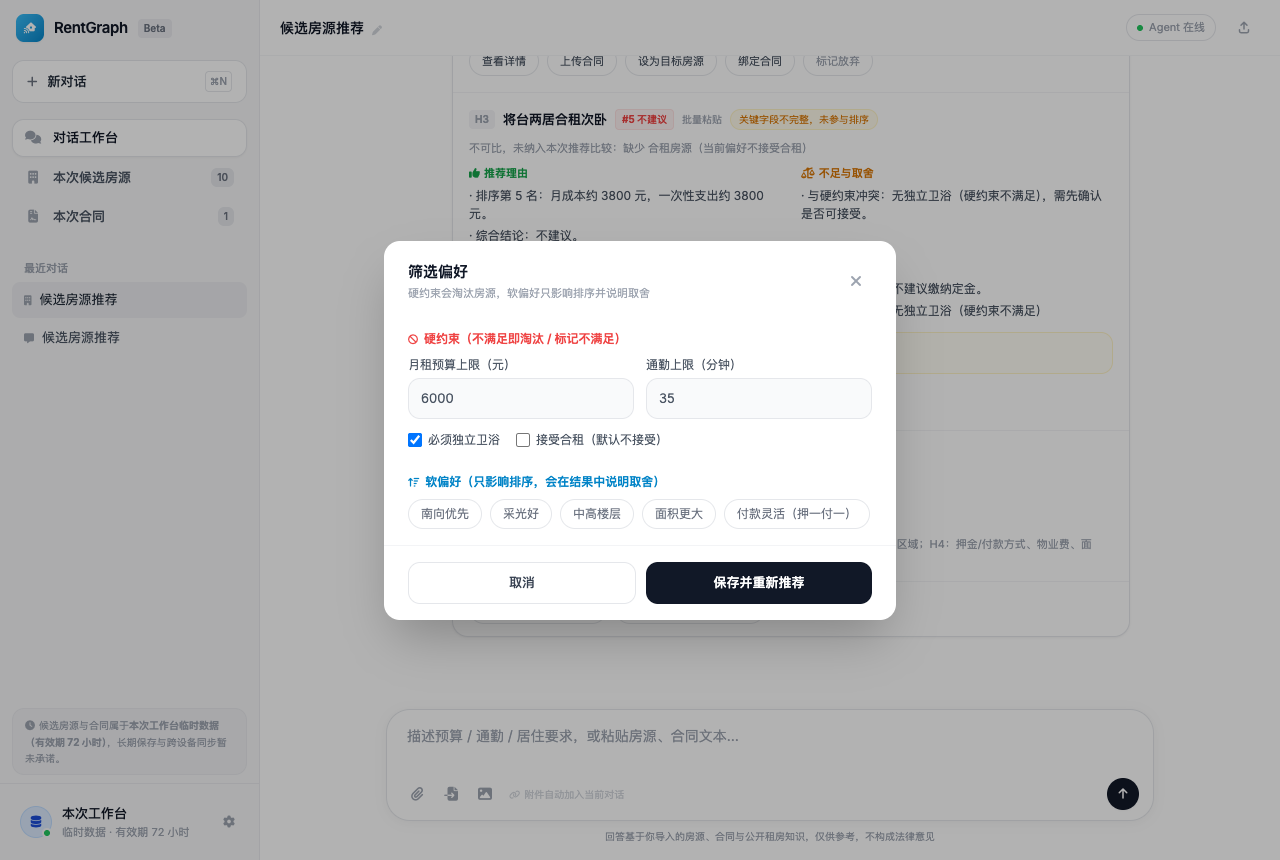
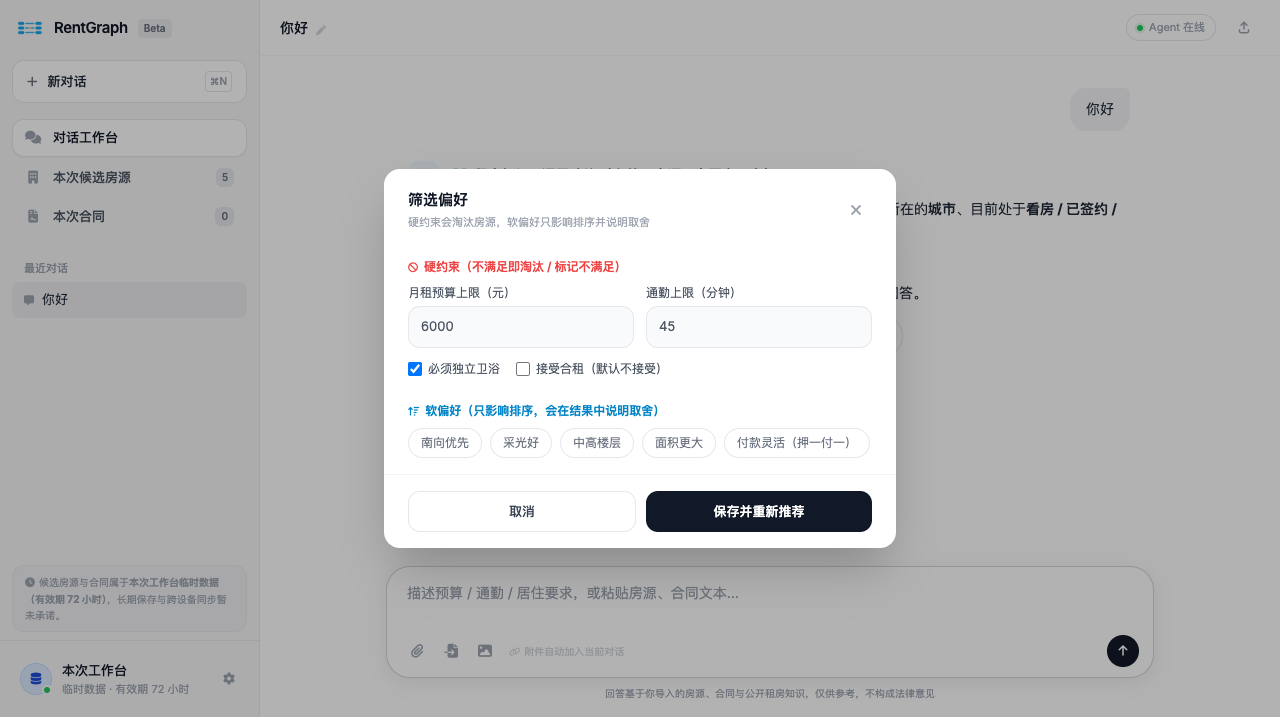
docs: README 顶部加品牌图标、截图按新品牌重拍、设计文档标记已落地
- README 头部改为 图标 + 标题 + 一句话 + 徽章 + 导航，首页截图下移到正文首屏
- 8 张界面截图全部用新品牌重拍（侧边栏 logo / AI 消息头像 / 空状态标记）
- doc/design/图标与视觉资产-设计提示词.md §7 更新为落地清单（含产物表与回滚方式）

diff --git a/doc/design/图标与视觉资产-设计提示词.md b/doc/design/图标与视觉资产-设计提示词.md
@@ -192,11 +192,24 @@ real estate agent cliché, busy background, frame border, cropped edges
 - [ ] **形状语言一致**：与前端现有元素（28px 圆角方块、`rounded-lg`、粗描边图标）放一起不违和
 - [ ] **导出**：`icon-1024.png`（透明）/ `icon-dark-1024.png` / `icon-mono-1024.png` / `favicon-64.png` / `social-1280x640.png`
 
-## 7. 落地位置（设计定稿后需要改的地方）
+## 7. 落地位置（✅ 已接入）
 
-| 资产 | 落地位置 |
+资产由 `web/scripts/make-icon-exports.py` 生成（换图标时重跑一次即可）：
+
+| 文件 | 尺寸 | 来源 | 用途 |
+|---|---|---|---|
+| `web/public/icon-1024.png` / `icon-512.png` / `icon-192.png` | 1024 / 512 / 192 | 原稿（5 行） | README、og:image、文档 |
+| `web/public/apple-touch-icon.png` | 180 | 原稿 | iOS 主屏 |
+| `web/public/mark-96.png` | 96 | **3 行简化版** | 侧边栏 logo、AI 消息头像、空状态 |
+| `web/public/favicon.png` / `favicon-32.png` | 48 / 32 | 3 行简化版 | 浏览器标签页 |
+
+| 落地位置 | 现状 |
 |---|---|
-| Favicon / apple-touch-icon / og:image | `web/index.html`（目前**完全缺失**，只有 `<title>`） |
-| 侧边栏 logo 字形 | `web/src/components/Sidebar.tsx` 第 46–49 行，现为 `bg-gradient-to-br from-brand-400 to-brand-600` + `fa-house-signal` |
-| README 顶部 | `README.md` 第 2 行的 hero 图（现为产品截图，可换成品牌横幅） |
-| GitHub 仓库头像 / Social Preview | 仓库 Settings → Social preview 上传 `social-1280x640.png` |
+| `web/index.html` | ✅ favicon ×2 + apple-touch-icon + theme-color `#0ea5e9` + og:title/description/image |
+| `web/src/components/Sidebar.tsx` | ✅ 换成 `/mark-96.png`（原为渐变方块 + `fa-house-signal`） |
+| `web/src/components/ChatView.tsx` 空状态 | ✅ 浅蓝底方块内放标记 |
+| `web/src/components/MessageView.tsx` AI 头像 | ✅ 同上，28px 方块内 18px 标记 |
+| `README.md` 顶部 | ✅ 标题上方 88px 图标 |
+| GitHub 仓库 Social Preview | ⬜ 待你在仓库 Settings 上传（可用 `icon-512.png` 或另出 1280×640 横幅） |
+
+> 注：界面内三处图标原来是 FontAwesome 占位字形（`fa-house-signal`），换成品牌标记后与**冻结原型**存在有意的视觉差异（原型用于实现期像素对照）。若需回滚，把这三处的 `<img src="/mark-96.png">` 换回原来的渐变色块 + `<i className=\"fas fa-house-signal\">` 即可。

diff --git a/README.md b/README.md
@@ -1,5 +1,5 @@
 <div align="center">
-  <img src="doc/images/01-home.png" width="880" alt="RentGraph 首页：单条 / 批量 / 开始筛选三个入口">
+  <img src="web/public/icon-192.png" width="88" alt="RentGraph 图标：两栏条款逐条对齐，中间一个异常点" >
   <h1>RentGraph · 租房决策工作台</h1>
   <p><strong>把「房东怎么说的」和「合同怎么写的」逐条对上，再决定签不签。</strong></p>
   <p>
@@ -21,6 +21,8 @@
 </div>
 
 ---
+
+<img src="doc/images/01-home.png" width="880" alt="RentGraph 首页：单条 / 批量 / 开始筛选三个入口">
 
 ## 它解决什么问题
 
